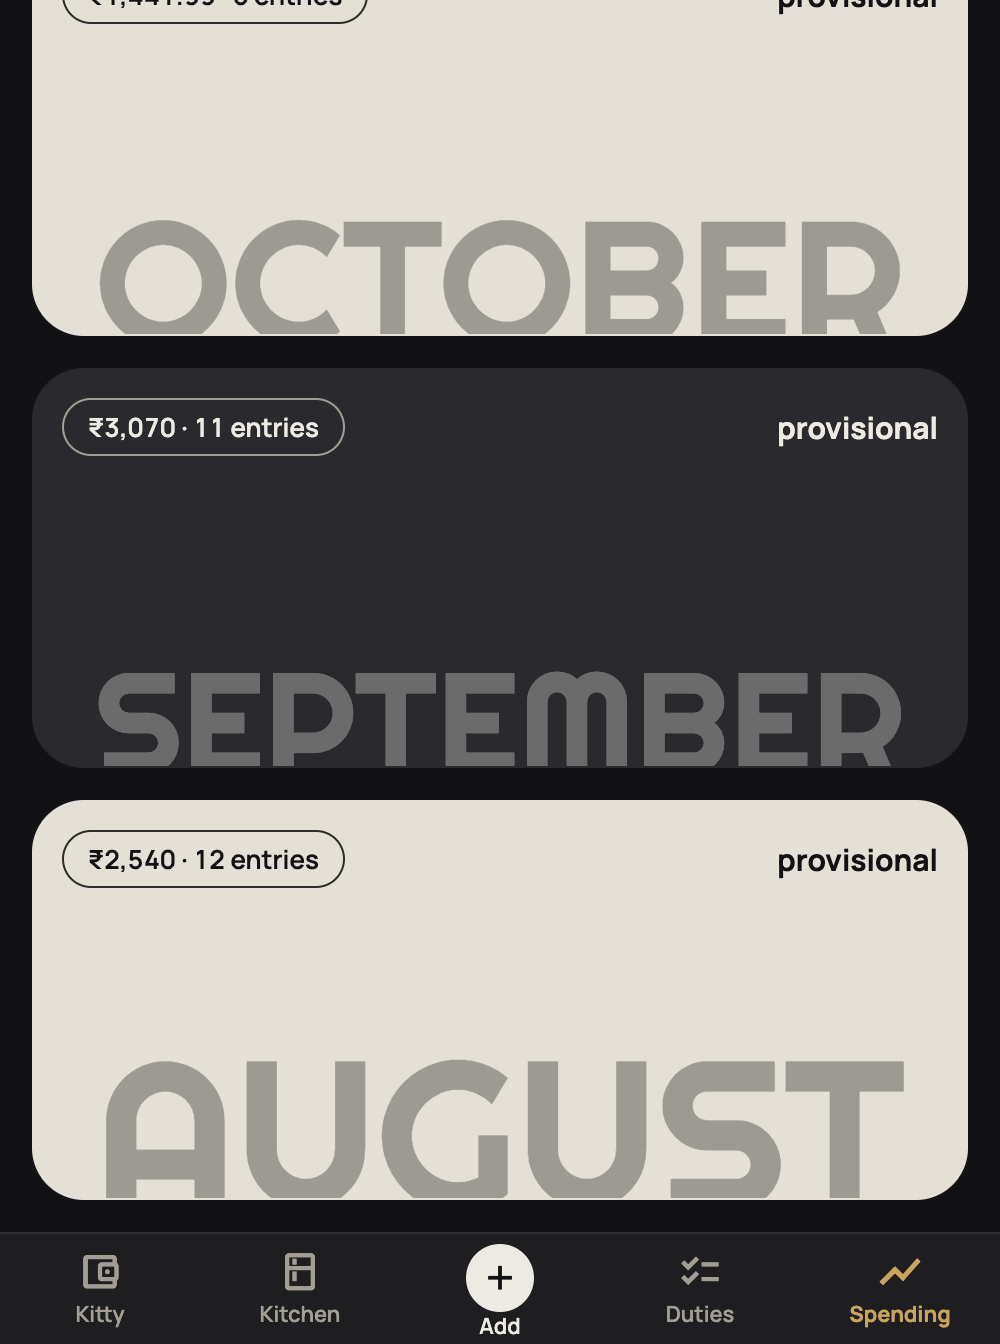
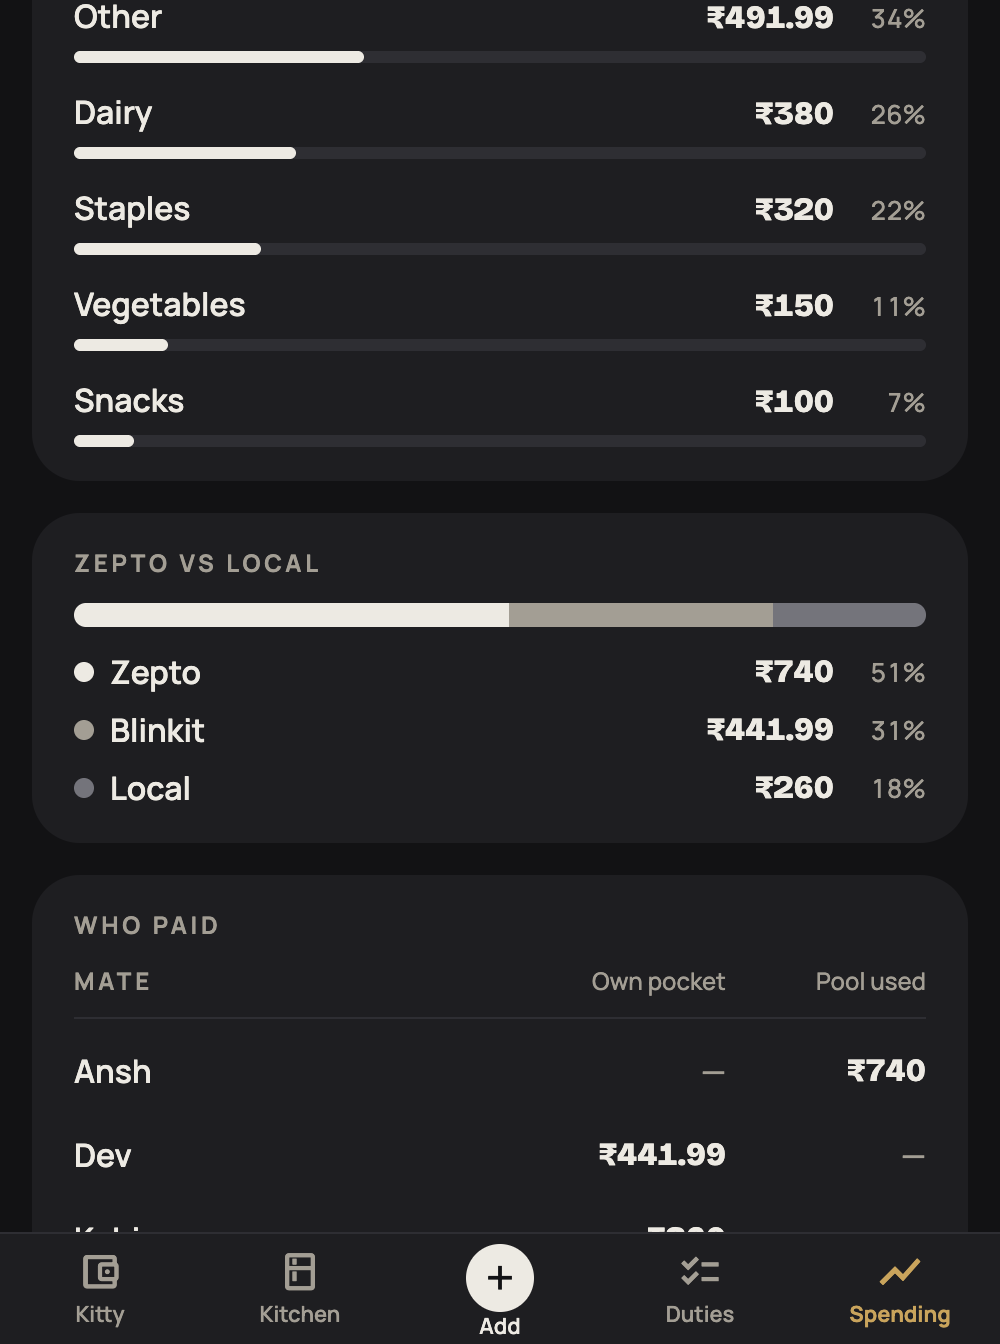
'Zepto vs local' is not the heading any more

diff --git a/src/ui/stats.tsx b/src/ui/stats.tsx
@@ -102,7 +102,7 @@ export function CategoryBars({ rows }: { rows: { label: string; paise: number; p
   );
 }
 
-/** One bar split by share, then the same shares as words. Zepto vs local vs other. */
+/** One bar split by share, then the same shares as words. Which app or shop the money went to. */
 export function SplitBar({ rows }: { rows: { label: string; note?: string; paise: number; pct: number }[] }) {
   const c = usePalette();
   const fills = [c.ink, c.muted, c.line];

diff --git a/src/app/(tabs)/spending.tsx b/src/app/(tabs)/spending.tsx
@@ -123,7 +123,7 @@ export default function Spending() {
           </Block>
 
           <Block>
-            <SectionLabel>Zepto vs local</SectionLabel>
+            <SectionLabel>Where it came from</SectionLabel>
             <SplitBar
               rows={breakdown.bySource.map((r) => ({
                 label: SOURCE[r.source as keyof typeof SOURCE],
